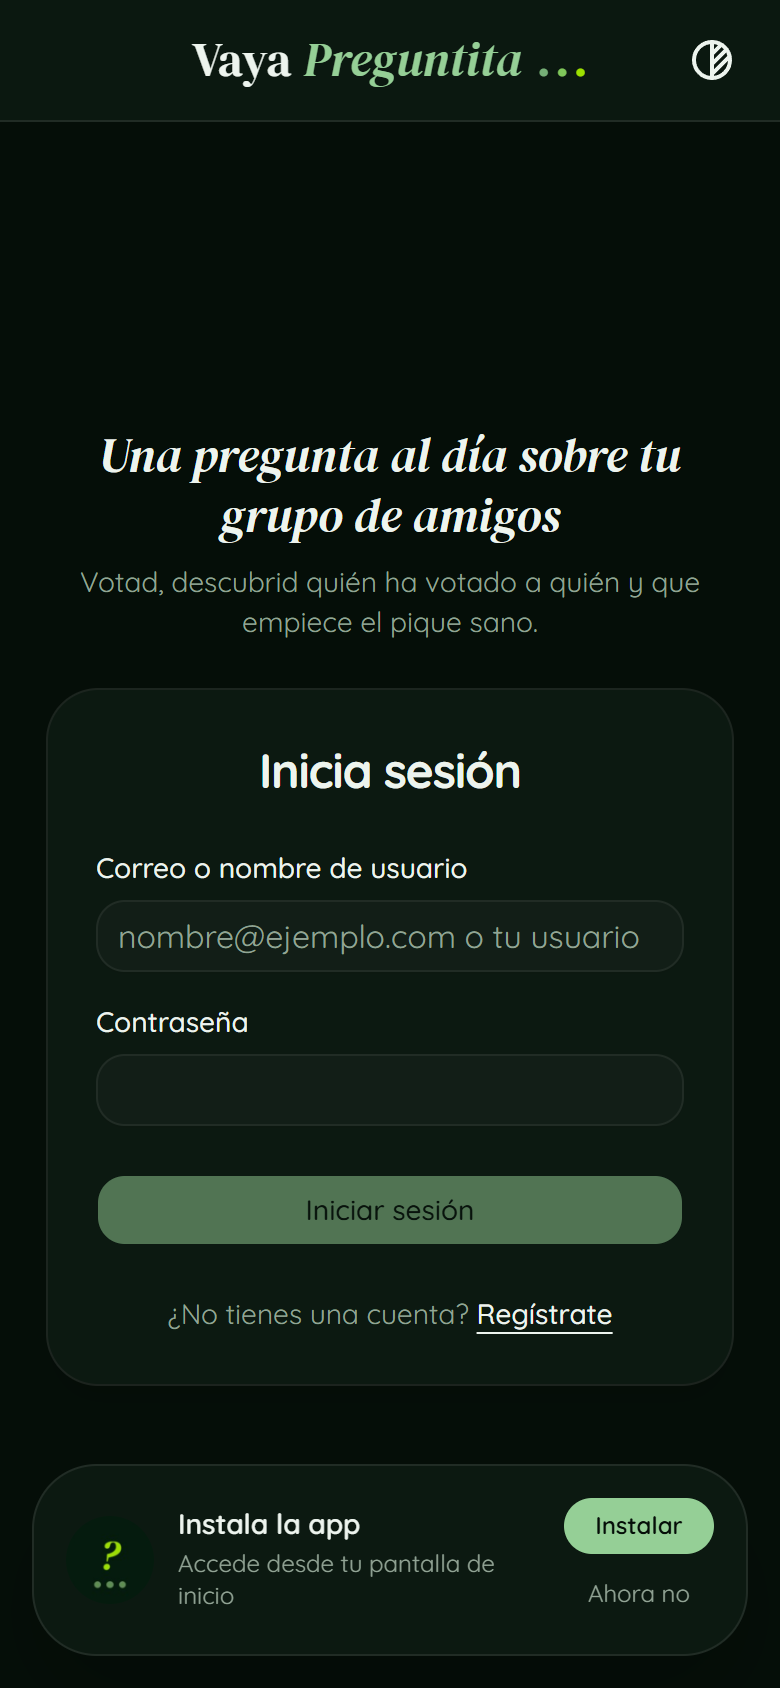
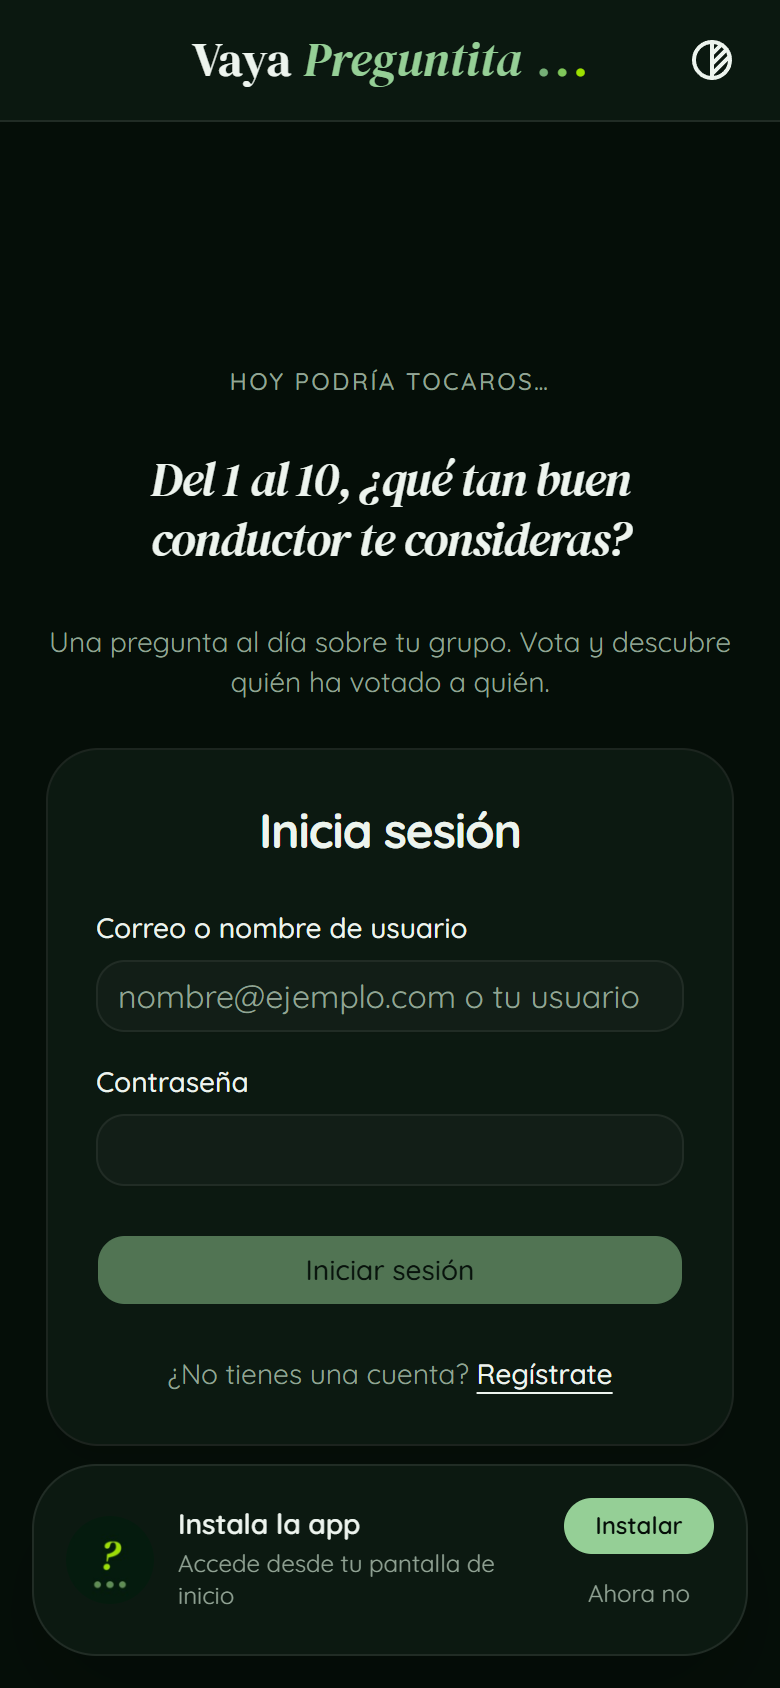
feat(auth): animated showcases — rotating seeded questions on login, looping fake results demo on register

Changed region(s): [[0.0615, 0.2156, 0.9231, 0.6469], [0.1231, 0.6777, 0.8923, 0.8318], [0.6769, 0.5545, 0.8, 0.6161]]

diff --git a/client/src/app/features/auth/components/showcase/results-showcase.component.ts b/client/src/app/features/auth/components/showcase/results-showcase.component.ts
@@ -1,0 +1,100 @@
+import { ChangeDetectionStrategy, Component } from '@angular/core';
+
+interface ShowcaseRow {
+  name: string;
+  pct: number;
+  color: string;
+  voters: string[];
+}
+
+/** Fake looping results animation, shown as a product teaser on the register page. */
+@Component({
+  selector: 'app-results-showcase',
+  changeDetection: ChangeDetectionStrategy.OnPush,
+  template: `
+    <div class="space-y-3 rounded-xl border border-border bg-card/60 p-4" aria-hidden="true">
+      <p class="vp-question-text text-lg md:text-xl text-center">
+        ¿Quién llegaría tarde a su propia boda?
+      </p>
+
+      <div class="space-y-2">
+        @for (row of rows; track row.name) {
+          <div class="flex items-center gap-2">
+            <div
+              class="flex size-7 shrink-0 items-center justify-center rounded-full text-xs font-bold text-black/80"
+              [style.background]="row.color"
+            >
+              {{ row.name[0] }}
+            </div>
+            <div class="relative h-8 flex-1 overflow-hidden rounded-lg bg-muted">
+              <div
+                class="vp-demo-fill absolute inset-y-0 left-0 rounded-lg"
+                [style.background]="row.color"
+                [style.max-width.%]="row.pct"
+              ></div>
+              <span
+                class="absolute inset-y-0 left-2 flex items-center text-xs font-medium text-foreground"
+                style="text-shadow: 0 1px 2px rgb(0 0 0 / 0.35)"
+              >
+                {{ row.name }}
+              </span>
+              <div class="vp-demo-voters absolute inset-y-0 right-2 flex items-center">
+                @for (voter of row.voters; track voter) {
+                  <div
+                    class="-ml-1 flex size-5 items-center justify-center rounded-full border border-background bg-secondary text-[10px] font-semibold text-secondary-foreground"
+                  >
+                    {{ voter }}
+                  </div>
+                }
+              </div>
+            </div>
+            <span class="w-10 shrink-0 text-right text-xs font-medium text-muted-foreground">
+              {{ row.pct }}%
+            </span>
+          </div>
+        }
+      </div>
+
+      <p class="text-center text-xs text-muted-foreground">
+        Resultados en vivo: mira quién ha votado a quién
+      </p>
+    </div>
+  `,
+  styles: `
+    .vp-demo-fill {
+      width: 100%;
+      animation: vp-demo-grow 6s cubic-bezier(0.16, 1, 0.3, 1) infinite;
+    }
+    .vp-demo-voters {
+      animation: vp-demo-appear 6s ease infinite;
+    }
+    :host > div > div > div:nth-child(2) .vp-demo-fill {
+      animation-delay: 0.2s;
+    }
+    :host > div > div > div:nth-child(3) .vp-demo-fill {
+      animation-delay: 0.4s;
+    }
+    @keyframes vp-demo-grow {
+      0% { width: 0; opacity: 1; }
+      35%, 88% { width: 100%; opacity: 1; }
+      96%, 100% { width: 100%; opacity: 0; }
+    }
+    @keyframes vp-demo-appear {
+      0%, 40% { opacity: 0; transform: translateX(4px); }
+      55%, 88% { opacity: 1; transform: translateX(0); }
+      96%, 100% { opacity: 0; }
+    }
+    @media (prefers-reduced-motion: reduce) {
+      .vp-demo-fill, .vp-demo-voters {
+        animation: none;
+      }
+    }
+  `,
+})
+export class ResultsShowcaseComponent {
+  protected readonly rows: ShowcaseRow[] = [
+    { name: 'Marta', pct: 54, color: 'var(--chart-1)', voters: ['D', 'L'] },
+    { name: 'Dani', pct: 31, color: 'var(--chart-2)', voters: ['M'] },
+    { name: 'Lucía', pct: 15, color: 'var(--chart-6)', voters: ['J'] },
+  ];
+}

diff --git a/client/src/app/features/auth/components/showcase/rotating-question.component.ts b/client/src/app/features/auth/components/showcase/rotating-question.component.ts
@@ -1,0 +1,55 @@
+import { ChangeDetectionStrategy, Component, OnDestroy, OnInit, signal } from '@angular/core';
+
+import { WordStaggerPipe } from '../../../../shared/pipes/word-stagger.pipe';
+
+/** Real seeded pack questions, shown as a teaser on the login page. */
+const SHOWCASE_QUESTIONS = [
+  '¿Quién fundaría una secta totalmente por accidente?',
+  'Del 1 al 10, ¿qué tan buen conductor te consideras?',
+  '¿Quién será la primera persona en divorciarse?',
+  'Si cambias una a una todas las piezas de un barco, ¿sigue siendo el mismo barco?',
+  'Top 3 frutos secos',
+];
+
+@Component({
+  selector: 'app-rotating-question',
+  imports: [WordStaggerPipe],
+  changeDetection: ChangeDetectionStrategy.OnPush,
+  template: `
+    <div class="space-y-2 text-center">
+      <p class="text-xs font-medium uppercase tracking-widest text-muted-foreground">
+        Hoy podría tocaros…
+      </p>
+      <div class="flex min-h-[6rem] items-center justify-center">
+        <h1
+          class="vp-question-text text-2xl md:text-3xl"
+          [innerHTML]="question() | wordStagger"
+        ></h1>
+      </div>
+      <p class="text-sm text-muted-foreground">
+        Una pregunta al día sobre tu grupo. Vota y descubre quién ha votado a quién.
+      </p>
+    </div>
+  `,
+})
+export class RotatingQuestionComponent implements OnInit, OnDestroy {
+  private static readonly ROTATION_MS = 4500;
+
+  private index = 0;
+  private intervalId?: ReturnType<typeof setInterval>;
+
+  protected readonly question = signal(SHOWCASE_QUESTIONS[0]);
+
+  ngOnInit(): void {
+    if (window.matchMedia('(prefers-reduced-motion: reduce)').matches) return;
+
+    this.intervalId = setInterval(() => {
+      this.index = (this.index + 1) % SHOWCASE_QUESTIONS.length;
+      this.question.set(SHOWCASE_QUESTIONS[this.index]);
+    }, RotatingQuestionComponent.ROTATION_MS);
+  }
+
+  ngOnDestroy(): void {
+    clearInterval(this.intervalId);
+  }
+}

diff --git a/client/src/app/features/auth/components/register/register.component.ts b/client/src/app/features/auth/components/register/register.component.ts
@@ -17,10 +17,11 @@ import { HlmInputImports } from '@spartan-ng/helm/input';
 import { AuthService } from '../../../../core/auth/auth.service';
 import { RegisterRequest } from '../../models/register-request.interface';
 import { AuthValidators } from '../../validators/auth.validators';
+import { ResultsShowcaseComponent } from '../showcase/results-showcase.component';
 
 @Component({
   selector: 'app-register',
-  imports: [ReactiveFormsModule, RouterLink, HlmCardImports, HlmFieldImports, HlmInputImports, HlmButtonImports],
+  imports: [ReactiveFormsModule, RouterLink, HlmCardImports, HlmFieldImports, HlmInputImports, HlmButtonImports, ResultsShowcaseComponent],
   changeDetection: ChangeDetectionStrategy.OnPush,
   templateUrl: './register.component.html',
   styleUrl: './register.component.css',

diff --git a/client/src/app/features/auth/components/login/login.component.ts b/client/src/app/features/auth/components/login/login.component.ts
@@ -9,10 +9,11 @@ import { HlmInputImports } from '@spartan-ng/helm/input';
 
 import { LoginRequest } from '../../models/login-request.interface';
 import { AuthService } from '../../../../core/auth/auth.service';
+import { RotatingQuestionComponent } from '../showcase/rotating-question.component';
 
 @Component({
   selector: 'app-login',
-  imports: [ReactiveFormsModule, RouterLink, HlmCardImports, HlmFieldImports, HlmInputImports, HlmButtonImports],
+  imports: [ReactiveFormsModule, RouterLink, HlmCardImports, HlmFieldImports, HlmInputImports, HlmButtonImports, RotatingQuestionComponent],
   changeDetection: ChangeDetectionStrategy.OnPush,
   templateUrl: './login.component.html',
 })

diff --git a/client/src/app/features/auth/layouts/auth-layout.component.html b/client/src/app/features/auth/layouts/auth-layout.component.html
@@ -2,16 +2,7 @@
   <app-header></app-header>
 
   <main class="flex-1 flex items-center justify-center p-6 md:p-10">
-    <div class="w-full max-w-sm space-y-6">
-      <div class="space-y-2 text-center">
-        <h1 class="font-display italic text-2xl leading-tight text-foreground">
-          Una pregunta al día sobre tu grupo de amigos
-        </h1>
-        <p class="text-sm text-muted-foreground">
-          Votad, descubrid quién ha votado a quién y que empiece el pique sano.
-        </p>
-      </div>
-
+    <div class="w-full max-w-sm">
       <router-outlet></router-outlet>
     </div>
   </main>

diff --git a/client/src/app/features/auth/components/login/login.component.html b/client/src/app/features/auth/components/login/login.component.html
@@ -1,3 +1,5 @@
+<app-rotating-question class="mb-6 block" />
+
 <hlm-card
   class="w-full max-w-md border-border bg-card shadow-lg transition-all duration-200"
 >

diff --git a/client/src/app/features/auth/components/register/register.component.html b/client/src/app/features/auth/components/register/register.component.html
@@ -1,3 +1,5 @@
+<app-results-showcase class="mb-6 block" />
+
 <hlm-card
   class="w-full border-border bg-card shadow-lg transition-all duration-200"
 >

diff --git a/docs/specs/vaya-preguntita.md b/docs/specs/vaya-preguntita.md
@@ -626,7 +626,7 @@ Free-tier quotas (Render/Vercel/Supabase) must not be exhausted. Enforce server-
 
 | Push notifications (Web Push / VAPID): `DevicePushSubscription` + `NotificationPreferences` entities + migration (`AddNotificationsSupport`); `INotificationService` / `NotificationService` (Lib.Net.Http.WebPush); `NotificationsController` (`GET /vapid-key`, `POST/DELETE /subscriptions`, `GET/PUT /preferences`); `PATCH /groups/{id}/members/me/mute`; 4 notification types — `new_question` (fired at T for all members), `selector_turn` (fired at preselection time + 3 h reminder if still auto-selected), `user_voted` (fire-and-forget on `VoteAsync`), `new_message` (fire-and-forget on `SendMessageAsync`); stale subscription cleanup (410/404); VAPID keys in Render env vars (`Vapid__PublicKey/PrivateKey/Subject`). Angular: `PushNotificationService` (SwPush wrapper, VAPID fetch, subscribe/unsubscribe, notification-click routing, 7-day dismiss cooldown); `NotificationPreferencesService`; `PushNotificationPromptComponent` nudge banner; "Notificaciones" section in `/profile` (master toggle + 4 per-type switches); "Silenciar este grupo" switch in group settings; `SelectQuestionDialogComponent.triggerOpen()` (auto-opens after voting if current user is selector). Quick-wins: register form shows 409 conflict error; join-group shows "Ya eres miembro" toast. | ✅ — `feat/notifications` |
 
-| Portfolio & onboarding pass: product-first root `README.md` (live demo link, features, architecture diagram, honest roadmap, engineering practices); `server/README.md` (local setup moved from root) + real `client/README.md`; `index.html` → `lang="es"`, meta description + Open Graph/Twitter cards (WhatsApp/LinkedIn link previews); product pitch tagline on the auth layout (login/register); dead code removed (unused `styles-ambar/arcade/neon.css`, `features/questions/question-list`, commented routes and font experiments) | ✅ — `feat/portfolio-polish` |
+| Portfolio & onboarding pass: product-first root `README.md` (live demo link, features, architecture diagram, honest roadmap, engineering practices); `server/README.md` (local setup moved from root) + real `client/README.md`; `index.html` → `lang="es"`, meta description + Open Graph/Twitter cards (WhatsApp/LinkedIn link previews); animated auth showcases (developer-picked formats, 2026-07-16): login → `RotatingQuestionComponent` (real seeded questions cycling with the existing word-stagger animation + one-line pitch; returning users need speed, not selling), register → `ResultsShowcaseComponent` (fake looping who-voted-for-whom result bars with fictional names; new visitors need the product's magic demonstrated); both respect `prefers-reduced-motion`; dead code removed (unused `styles-ambar/arcade/neon.css`, `features/questions/question-list`, commented routes and font experiments) | ✅ — `feat/portfolio-polish` |
 
 ### Pending (MVP)
 
@@ -672,7 +672,7 @@ Triaged from a combined list of developer-reported bugs + the §16 backlog. Seve
 | 22 | `tests/core-domain-and-ci` | *(low priority — developer decision 2026-07-16)* Meaningful automated tests where the domain is hardest: `DailyPreselectionService` (selector rotation, ≥2-member gate, preselect-tomorrow/activate-today), `ResultsBuilder` (per-type aggregation, Secret Pairing pair-merge, distinct-voter counts), `TemplateCloner` (clone-on-use + auto-resolution), pool quotas. CI: new GitHub Actions workflow running build + tests for **both stacks on every PR** (client is not built in CI today); status badges in the README. |
 | 23 | `feat/i18n-ui` | **Play in English and German — UI layer** (confirmed 2026-07-16, promoted from Phase 2 §16). Runtime translation of all Angular copy (Transloco or equivalent — runtime switching, not compile-time `$localize` builds); `User.PreferredLanguage` (`es`/`en`/`de`) + migration; **default from the browser language** (`navigator.language` / `Accept-Language`) at first visit/registration — explicitly **not IP geolocation** (unreliable, needs a geo service; browser language is the standard mechanism); unsupported browser languages fall back to `en` *(assumption — flip to `es` if preferred)*; language picker in profile and on the auth pages; localized backend validation/error messages. |
 | 24 | `feat/i18n-content` | **Play in English and German — content layer.** Translation storage for `QuestionTemplate` + `Pack` (per-language text, e.g. JSONB translations map keyed by language code — keeps row counts free-tier-flat); translate all ~307 seeded questions + pack names/descriptions to EN and DE; template-based daily questions render in **each member's own language**; **user-created questions stay in the author's language** (no auto-translation — free tier, no paid APIs). |
-| 25 | `feat/demo-experience` | *(low priority — developer decision 2026-07-16)* Demo experience so a solo visitor (recruiter, curious stranger) can see an active question, the vote flow and results with simulated data without needing a second member — implementation approach (frontend-only mock walkthrough vs seeded read-only group) to be decided at branch time; frontend-only is the free-tier-friendliest. |
+| 25 | `feat/demo-experience` | *(low priority — developer decision 2026-07-16)* Demo experience so a solo visitor (recruiter, curious stranger) can see an active question, the vote flow and results with simulated data without needing a second member — implementation approach (frontend-only mock walkthrough vs seeded read-only group) to be decided at branch time; frontend-only is the free-tier-friendliest. **Confirmed 2026-07-16:** includes a **screenshot carousel** in an "acerca de"/info section and/or a **guided first-login tour** (typical onboarding walkthrough shown once after the first login) — the carousel belongs here, not on the rama 21 landing or the auth pages. |
 
 **Development priority order (confirmed 2026-07-16):** 20 → 17 → 16 → 21 → 23 → 24 → 19 → 18 → 22 → 25 → 13 *(optional)* → Phase 2. Rationale: core-loop bug first (20); cheap UX fixes incl. the invite-link join gap (17); Scale 1–10 (16) lands before content gets translated ×3; public landing (21) is the highest-ROI product win for strangers; then the confirmed-priority i18n pair (23–24); engagement (19) and cosmetic work (18) next; tests+CI (22) and the demo experience (25) explicitly demoted to low priority by the developer; SignalR (13) stays optional.
 
